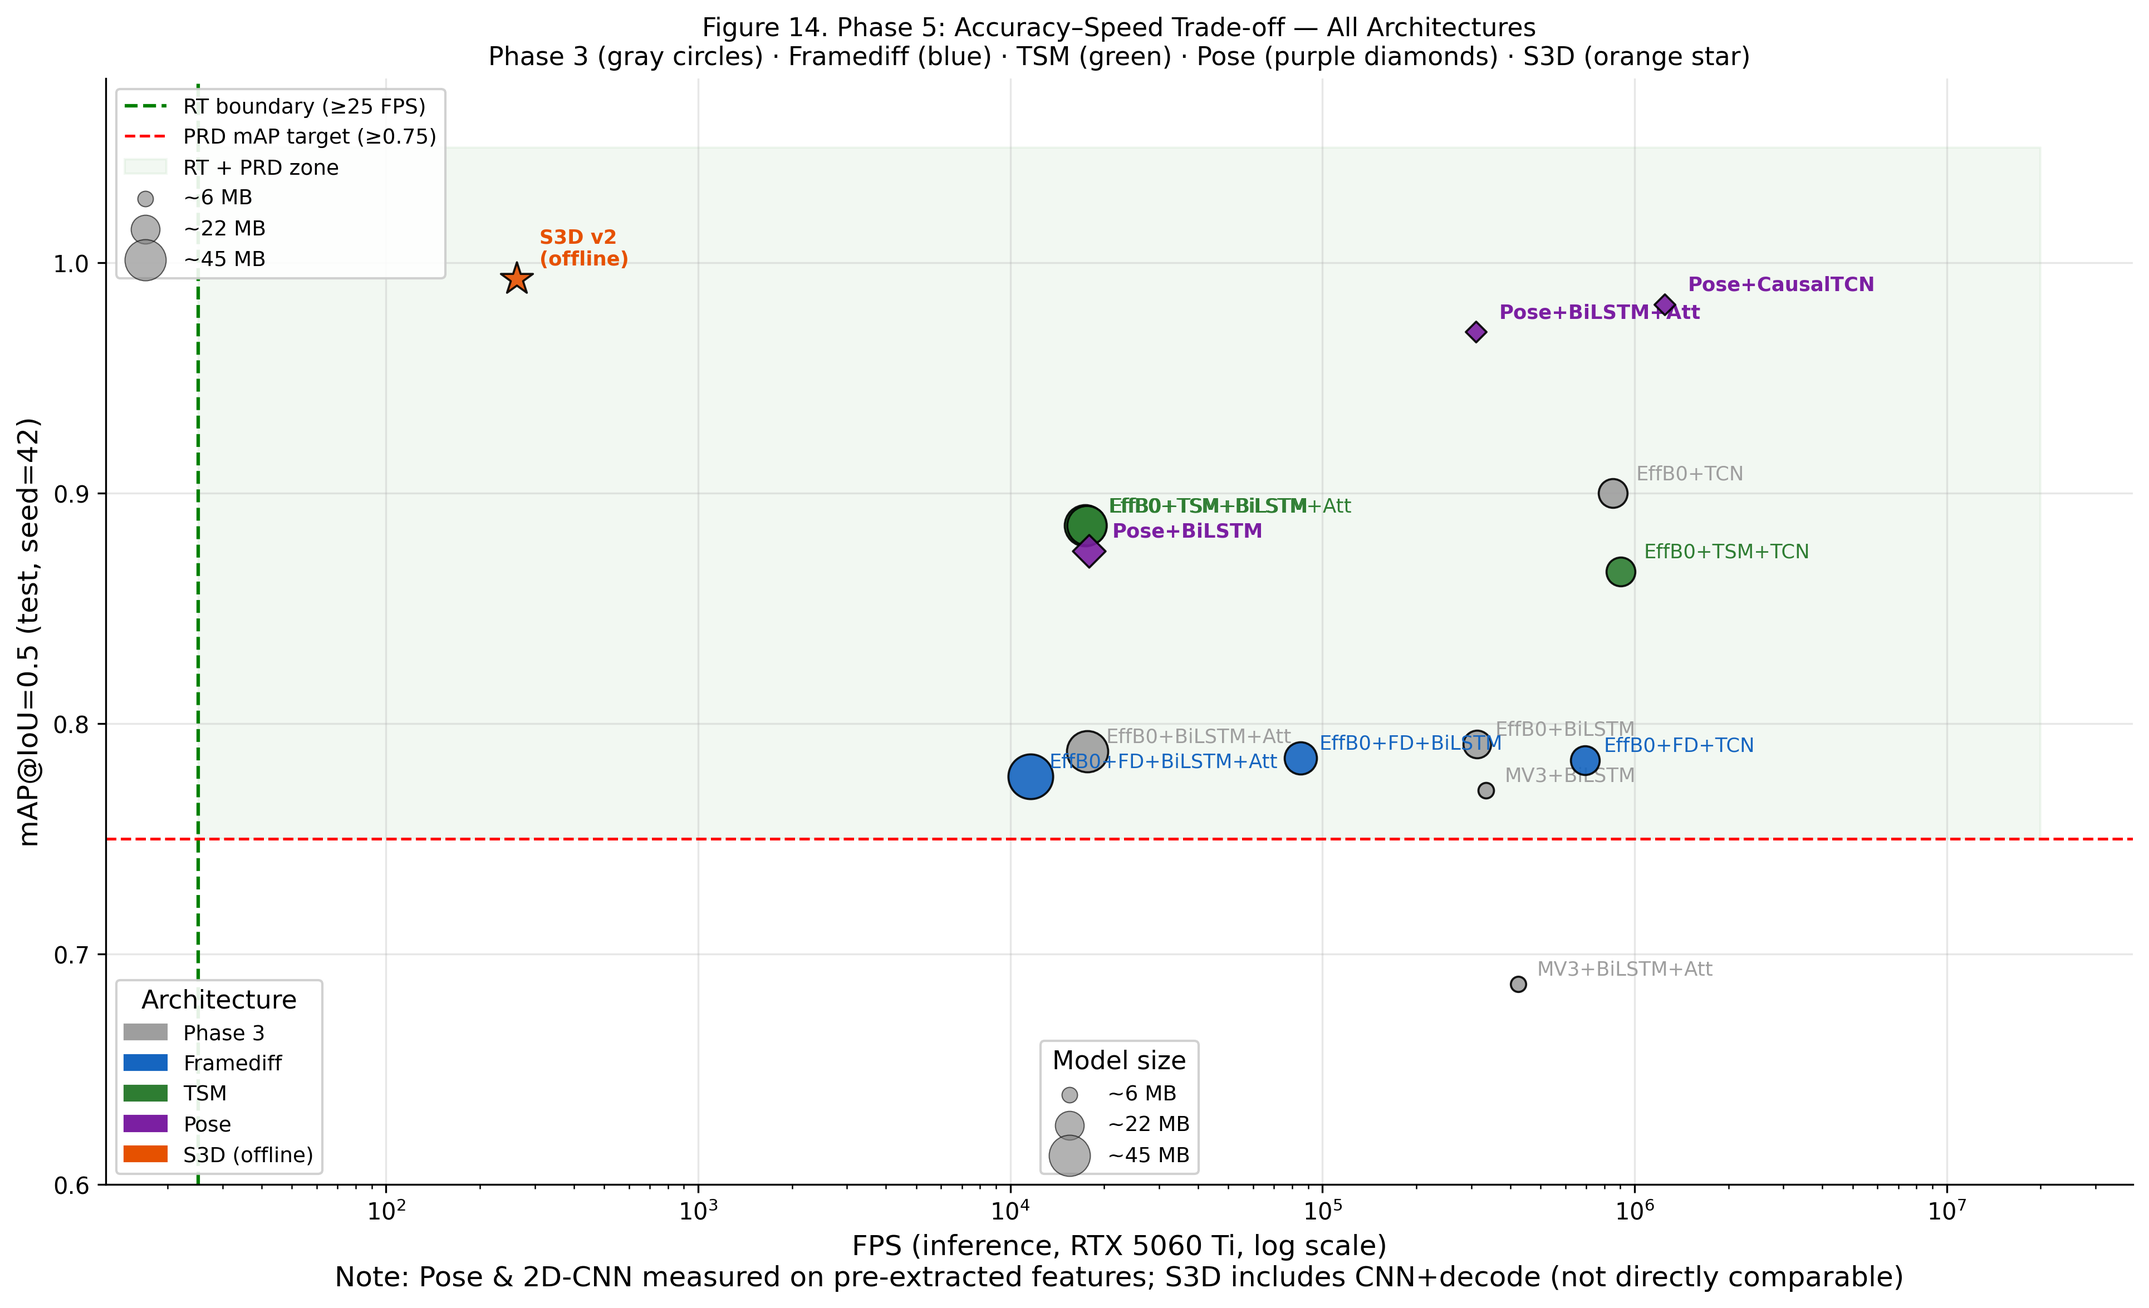
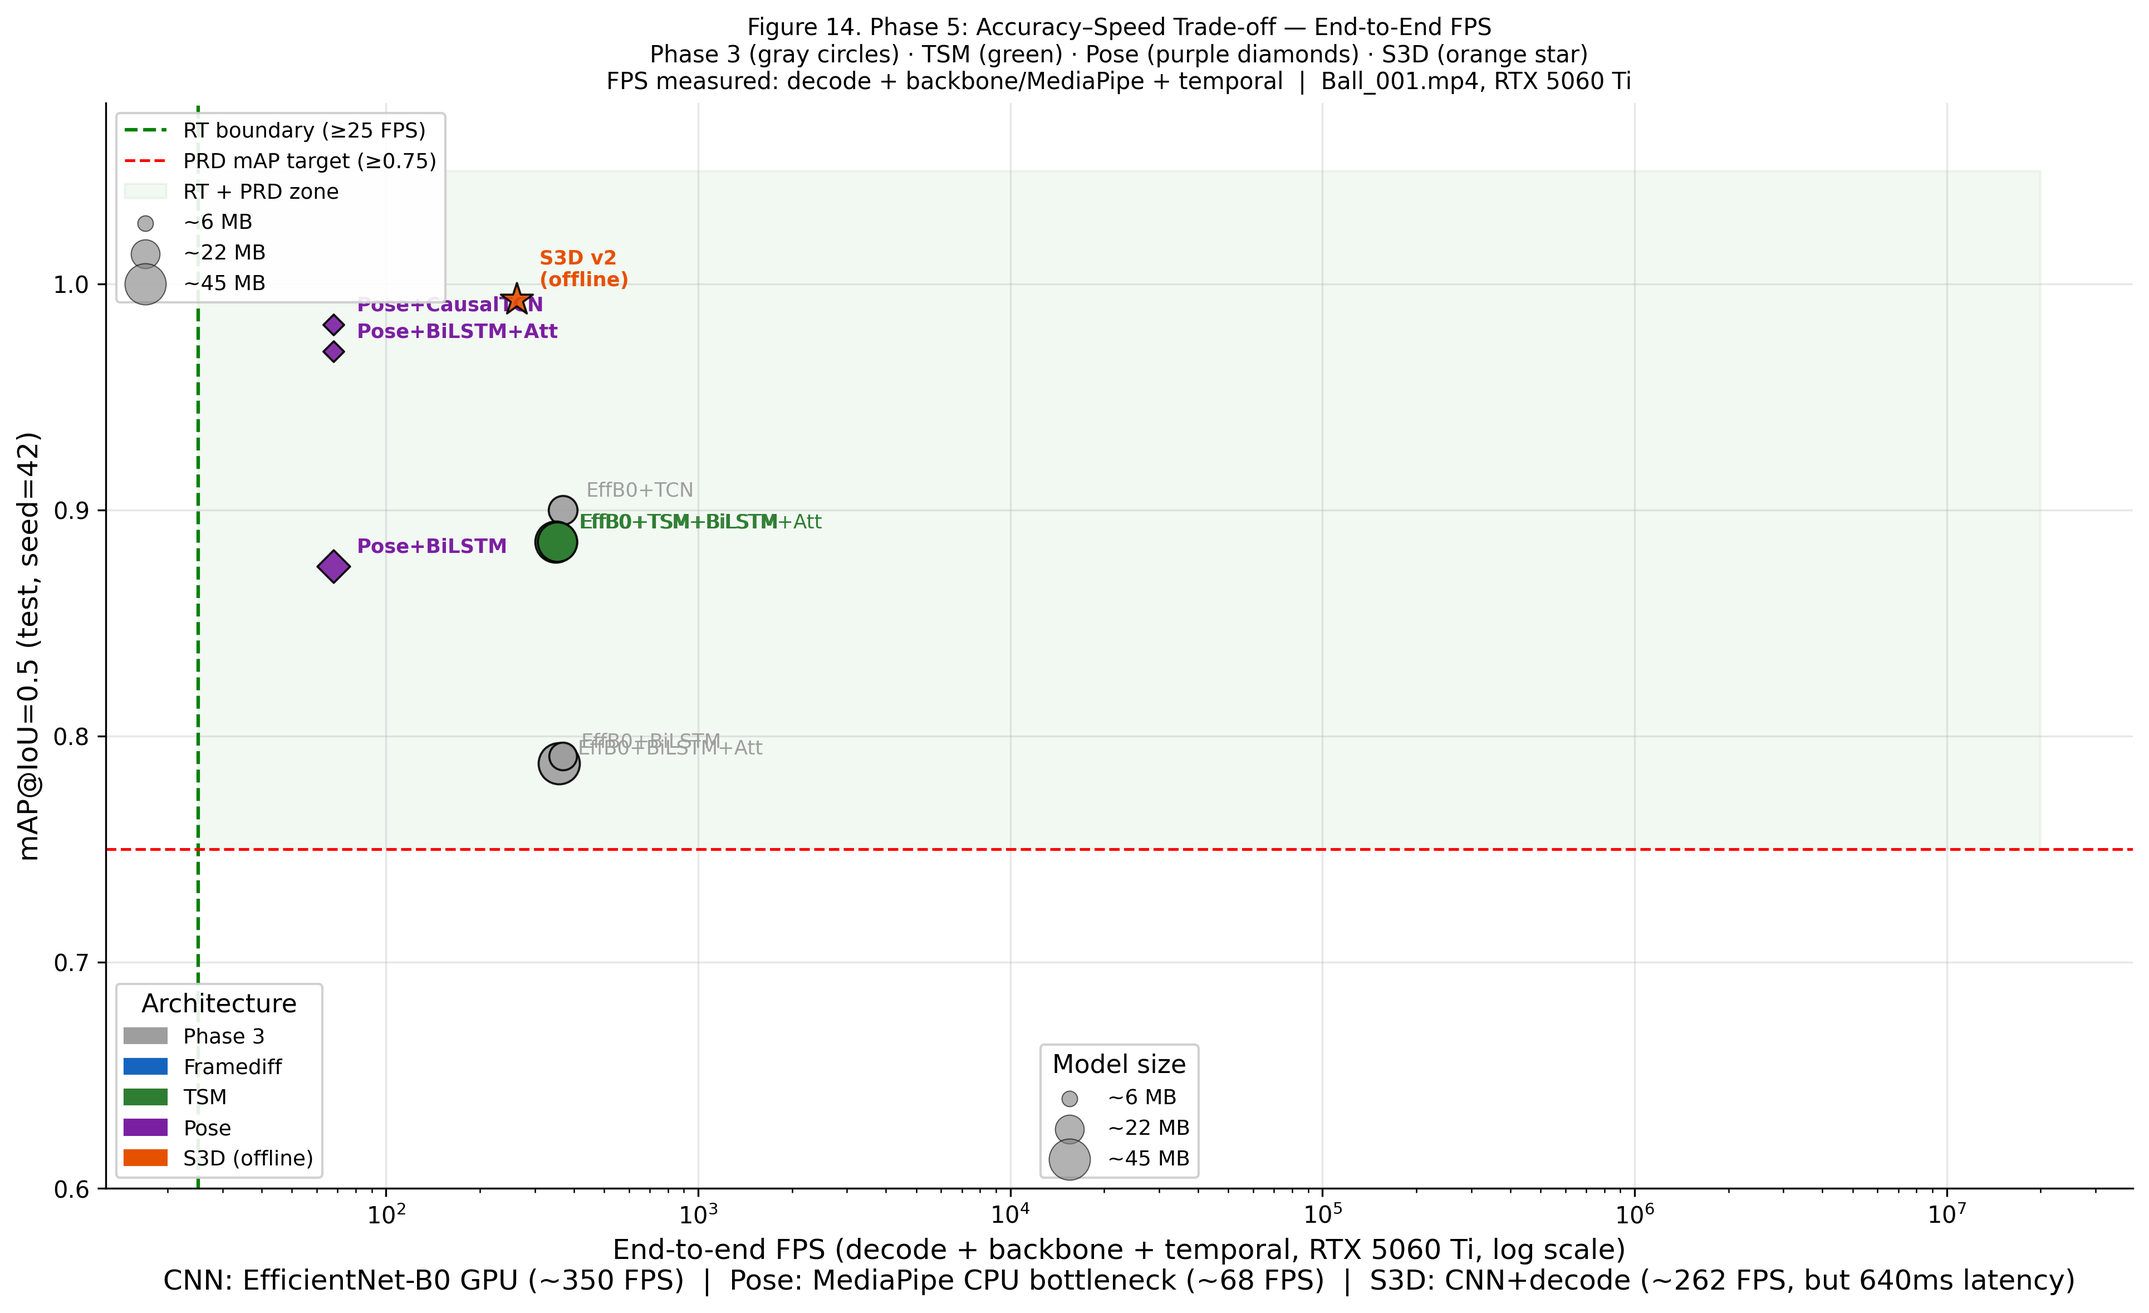
Phase 5: e2e FPS benchmark — equal conditions for all models
- Add measure_fps_e2e.py: decode + backbone/MediaPipe + temporal for all RT models
  Protocol: Ball_001.mp4, 1 warm-up + 3 runs, RTX 5060 Ti 2026-03-24
  Results: EffB0 family 349–369 FPS, Pose family 68 FPS (MediaPipe CPU bottleneck)
- Update generate_plots.py: use e2e FPS in PHASE5_FULL_MODELS for fig14 scatter
  Previously temporal-only FPS was incomparable (pose 99-dim vs CNN 1280-dim vs S3D)
- Regenerate fig14_p5_accuracy_vs_speed.png and comparison_fps.png with honest values

diff --git a/src/scripts/measure_fps_e2e.py b/src/scripts/measure_fps_e2e.py
@@ -1,0 +1,286 @@
+"""
+End-to-end FPS benchmark — ConElGym_RT.
+
+Одинаковые условия для всех моделей:
+  - Видео: Ball_001.mp4 (~2.5 мин)
+  - Декодирование: cv2.VideoCapture, кадр за кадром
+  - CNN-модели: decode + preprocess + backbone (chunk=256) + temporal
+  - Pose-модели: decode + MediaPipe + normalize + temporal
+  - S3D: результат из measure_s3d_fps.py (261.9 FPS) — уже честный
+  - Прогрев: 1 run (discarded), затем 3 measurement runs
+  - Финальный результат: mean ± std FPS
+
+Запуск:
+    python src/scripts/measure_fps_e2e.py
+"""
+
+from __future__ import annotations
+
+import sys
+import time
+from pathlib import Path
+
+import cv2
+import numpy as np
+import torch
+
+ROOT = Path(__file__).resolve().parents[2]
+sys.path.insert(0, str(ROOT))
+
+from src.models.backbone import CNNBackbone  # noqa: E402
+from src.models.full_model import GymRT  # noqa: E402
+from src.models.pose_model import PoseGymRT  # noqa: E402
+from src.scripts.extract_frame_features import preprocess_frame  # noqa: E402
+from src.scripts.extract_pose_features import (  # noqa: E402
+    _build_detector,
+    normalize_landmarks,
+)
+
+# ---------------------------------------------------------------------------
+# Константы
+# ---------------------------------------------------------------------------
+
+VIDEO_PATH = Path("C:/Users/ashav/Desktop/ConElGym_v2/data/train/videos/Ball_001.mp4")
+MODELS_DIR = ROOT / "models"
+
+BACKBONE_CHUNK = 256   # кадров за один backbone-проход (как chunk_size при обучении)
+N_RUNS        = 3      # measurement runs (первый — warm-up, результаты runs 2–4)
+WARMUP_RUNS   = 1
+
+# ---------------------------------------------------------------------------
+# Модели для замера
+# ---------------------------------------------------------------------------
+
+# (checkpoint_filename, model_type, display_name)
+MODELS = [
+    # CNN — EfficientNet-B0
+    ("efficientnet_b0_bilstm_attn_opt_seed42_best.pt",     "cnn",  "EffB0+BiLSTM+Att"),
+    ("efficientnet_b0_bilstm_opt_seed42_best.pt",          "cnn",  "EffB0+BiLSTM"),
+    ("efficientnet_b0_tcn_opt_seed42_best.pt",             "cnn",  "EffB0+TCN"),
+    ("efficientnet_b0_tsm_bilstm_attn_opt_seed42_best.pt", "cnn",  "EffB0+TSM+BiLSTM+Att"),
+    ("efficientnet_b0_tsm_bilstm_opt_seed42_best.pt",      "cnn",  "EffB0+TSM+BiLSTM"),
+    # Pose
+    ("pose_bilstm_attn_opt_seed42_best.pt",                "pose", "Pose+BiLSTM+Att"),
+    ("pose_bilstm_opt_seed42_best.pt",                     "pose", "Pose+BiLSTM"),
+    ("pose_causal_tcn_opt_seed42_best.pt",                 "pose", "Pose+CausalTCN"),
+]
+
+
+# ---------------------------------------------------------------------------
+# Загрузка моделей
+# ---------------------------------------------------------------------------
+
+def load_cnn_model(ckpt_path: Path, device: torch.device) -> GymRT:
+    ckpt = torch.load(ckpt_path, map_location=device, weights_only=True)
+    cfg = ckpt["config"]["model"]
+    model = GymRT(
+        backbone_name=cfg["backbone"],
+        temporal_name=cfg["temporal_head"],
+        temporal_cfg={
+            "hidden_dim": cfg.get("hidden_dim", 256),
+            "n_layers":   cfg.get("n_layers", 2),
+            "dropout":    cfg.get("dropout", 0.3),
+        },
+        frozen_backbone=True,
+    ).to(device)
+    model.load_state_dict(ckpt["model_state"])
+    model.eval()
+    return model
+
+
+def load_pose_model(ckpt_path: Path, device: torch.device) -> PoseGymRT:
+    ckpt = torch.load(ckpt_path, map_location=device, weights_only=True)
+    cfg = ckpt.get("config", {}).get("model", {})
+    temporal_cfg = {
+        "hidden_dim": cfg.get("hidden_dim", 256),
+        "n_layers":   cfg.get("n_layers", 2),
+        "dropout":    cfg.get("dropout", 0.3),
+    }
+    model = PoseGymRT(
+        hidden_dim=cfg.get("hidden_dim", 256),
+        temporal_name=cfg.get("temporal_head", "bilstm_attn"),
+        temporal_cfg=temporal_cfg,
+    ).to(device)
+    model.load_state_dict(ckpt["model_state"])
+    model.eval()
+    return model
+
+
+# ---------------------------------------------------------------------------
+# Benchmark: CNN (decode + preprocess + backbone + temporal)
+# ---------------------------------------------------------------------------
+
+def run_cnn_benchmark(model: GymRT, device: torch.device) -> float:
+    """Один прогон. Возвращает FPS."""
+    cap = cv2.VideoCapture(str(VIDEO_PATH))
+    if not cap.isOpened():
+        raise RuntimeError(f"Cannot open video: {VIDEO_PATH}")
+
+    all_feats: list[torch.Tensor] = []
+    chunk_frames: list[torch.Tensor] = []
+    n_frames = 0
+
+    t0 = time.perf_counter()
+
+    while True:
+        ret, frame_bgr = cap.read()
+        if not ret:
+            break
+        n_frames += 1
+        chunk_frames.append(preprocess_frame(frame_bgr))
+
+        if len(chunk_frames) == BACKBONE_CHUNK:
+            batch = torch.stack(chunk_frames).to(device)     # [T, C, H, W]
+            with torch.no_grad():
+                feats = model.backbone(batch)                 # [T, D]
+            all_feats.append(feats.cpu())
+            chunk_frames = []
+
+    # Remaining frames
+    if chunk_frames:
+        batch = torch.stack(chunk_frames).to(device)
+        with torch.no_grad():
+            feats = model.backbone(batch)
+        all_feats.append(feats.cpu())
+
+    cap.release()
+
+    # Temporal head — весь ролик одним проходом [1, N, D]
+    all_feats_t = torch.cat(all_feats, dim=0).unsqueeze(0).to(device)
+    with torch.no_grad():
+        _ = model.temporal(all_feats_t)
+
+    elapsed = time.perf_counter() - t0
+    return n_frames / elapsed if elapsed > 0 else 0.0
+
+
+# ---------------------------------------------------------------------------
+# Benchmark: Pose (decode + MediaPipe + normalize + temporal)
+# ---------------------------------------------------------------------------
+
+def run_pose_benchmark(model: PoseGymRT, device: torch.device) -> float:
+    """Один прогон. Возвращает FPS."""
+    cap = cv2.VideoCapture(str(VIDEO_PATH))
+    if not cap.isOpened():
+        raise RuntimeError(f"Cannot open video: {VIDEO_PATH}")
+
+    video_fps = cap.get(cv2.CAP_PROP_FPS) or 25.0
+    ms_per_frame = int(1000.0 / video_fps)
+
+    detector = _build_detector()
+
+    all_pose: list[np.ndarray] = []
+    frame_idx = 0
+    n_frames = 0
+
+    t0 = time.perf_counter()
+
+    while True:
+        ret, frame_bgr = cap.read()
+        if not ret:
+            break
+        n_frames += 1
+        ts_ms = frame_idx * ms_per_frame
+        frame_idx += 1
+
+        # MediaPipe ожидает RGB
+        frame_rgb = cv2.cvtColor(frame_bgr, cv2.COLOR_BGR2RGB)
+        import mediapipe as mp_lib
+        mp_image = mp_lib.Image(
+            image_format=mp_lib.ImageFormat.SRGB,
+            data=frame_rgb,
+        )
+        result = detector.detect_for_video(mp_image, ts_ms)
+
+        if result.pose_landmarks:
+            raw = np.array(
+                [[lm.x, lm.y, lm.visibility] for lm in result.pose_landmarks[0]],
+                dtype=np.float32,
+            )
+            feat = normalize_landmarks(raw).flatten()
+        else:
+            feat = np.zeros(99, dtype=np.float32)
+
+        all_pose.append(feat)
+
+    cap.release()
+    detector.close()
+
+    # Temporal head [1, N, 99]
+    pose_t = torch.tensor(np.stack(all_pose)).unsqueeze(0).to(device)
+    with torch.no_grad():
+        _ = model.temporal(pose_t)
+
+    elapsed = time.perf_counter() - t0
+    return n_frames / elapsed if elapsed > 0 else 0.0
+
+
+# ---------------------------------------------------------------------------
+# Main
+# ---------------------------------------------------------------------------
+
+def main() -> None:
+    if not VIDEO_PATH.exists():
+        print(f"[ERROR] Video not found: {VIDEO_PATH}")
+        sys.exit(1)
+
+    device = torch.device("cuda" if torch.cuda.is_available() else "cpu")
+    print(f"Device: {device}")
+    print(f"Video:  {VIDEO_PATH.name}")
+    print(f"Protocol: {WARMUP_RUNS} warm-up + {N_RUNS} measurement runs\n")
+
+    results: list[tuple[str, float, float]] = []  # (name, mean_fps, std_fps)
+
+    for ckpt_name, model_type, display in MODELS:
+        ckpt_path = MODELS_DIR / ckpt_name
+        if not ckpt_path.exists():
+            print(f"  [SKIP] {display} — checkpoint not found: {ckpt_name}")
+            continue
+
+        print(f"Benchmarking: {display}")
+
+        if model_type == "cnn":
+            model = load_cnn_model(ckpt_path, device)
+            bench_fn = lambda: run_cnn_benchmark(model, device)  # noqa: E731
+        else:
+            model = load_pose_model(ckpt_path, device)
+            bench_fn = lambda: run_pose_benchmark(model, device)  # noqa: E731
+
+        fps_runs: list[float] = []
+        total_runs = WARMUP_RUNS + N_RUNS
+
+        for run_idx in range(total_runs):
+            fps = bench_fn()
+            label = "warm-up" if run_idx < WARMUP_RUNS else f"run {run_idx - WARMUP_RUNS + 1}"
+            print(f"  {label}: {fps:,.1f} FPS")
+            if run_idx >= WARMUP_RUNS:
+                fps_runs.append(fps)
+
+        mean_fps = float(np.mean(fps_runs))
+        std_fps  = float(np.std(fps_runs))
+        print(f"  => MEAN: {mean_fps:,.1f} +/- {std_fps:,.1f} FPS\n")
+        results.append((display, mean_fps, std_fps))
+
+        del model
+        torch.cuda.empty_cache()
+
+    # ---------------------------------------------------------------------------
+    # Summary table
+    # ---------------------------------------------------------------------------
+    print("\n" + "=" * 65)
+    print("END-TO-END FPS RESULTS (decode + backbone + temporal)")
+    print("=" * 65)
+    print(f"{'Model':<30} {'FPS mean':>10} {'FPS std':>10}  {'RT?':>5}")
+    print("-" * 65)
+    for name, mean, std in sorted(results, key=lambda x: -x[1]):
+        rt_ok = "YES" if mean >= 25 else "NO"
+        print(f"{name:<30} {mean:>10,.1f} {std:>10,.1f}  {rt_ok:>5}")
+    print("-" * 65)
+    print("S3D v2 (reference, from measure_s3d_fps.py):")
+    print(f"{'S3D+BiLSTM+Att (offline)':<30} {'261.9':>10} {'22.4':>10}  {'YES':>5}")
+    print("  Note: S3D includes CNN+decode; RT models: CNN/MediaPipe+temporal")
+    print("=" * 65)
+
+
+if __name__ == "__main__":
+    main()

diff --git a/src/scripts/generate_plots.py b/src/scripts/generate_plots.py
@@ -140,32 +140,35 @@ PHASE5_PALETTE = {
 }
 
 # ---------------------------------------------------------------------------
-# Phase 5 FULL data — все модели (test split, _opt, compare_models.py 2026-03-24)
+# Phase 5 FULL data — все модели (test split, _opt, 2026-03-24)
+# FPS: end-to-end (decode + backbone/MediaPipe + temporal), measure_fps_e2e.py
+#   CNN models: ~350–370 FPS (EfficientNet-B0 GPU + temporal head)
+#   Pose models: ~68 FPS (MediaPipe CPU bottleneck + temporal head)
+#   S3D: 261.9 FPS (from measure_s3d_fps.py, includes CNN+decode)
 # ---------------------------------------------------------------------------
 
 # (name, map5_test, fps, size_mb, category, display_label)
 PHASE5_FULL_MODELS = [
-    # Phase 3 — EfficientNet-B0
-    ("eff_b0_bilstm_attn_opt", 0.788,    17_675, 45.1, "Phase 3",       "EffB0+BiLSTM+Att"),
-    ("eff_b0_bilstm_opt",      0.791,   312_272, 20.3, "Phase 3",       "EffB0+BiLSTM"),
-    ("eff_b0_tcn_opt",         0.900,   853_053, 22.0, "Phase 3",       "EffB0+TCN"),
-    # Phase 3 — MobileNetV3-Small
-    ("mv3_bilstm_opt",         0.771,   334_270,  6.4, "Phase 3",       "MV3+BiLSTM"),
-    ("mv3_bilstm_attn_opt",    0.687,   423_406,  6.2, "Phase 3",       "MV3+BiLSTM+Att"),
-    # Phase 5 Framediff
-    ("eff_b0_framediff_bilstm_attn_opt", 0.777,  11_617, 53.1, "Framediff", "EffB0+FD+BiLSTM+Att"),
-    ("eff_b0_framediff_bilstm_opt",      0.785,  85_182, 27.6, "Framediff", "EffB0+FD+BiLSTM"),
-    ("eff_b0_framediff_tcn_opt",         0.784, 694_922, 22.0, "Framediff", "EffB0+FD+TCN"),
-    # Phase 5 TSM
-    ("eff_b0_tsm_bilstm_attn_opt", 0.886,  17_343, 45.1, "TSM", "EffB0+TSM+BiLSTM+Att"),
-    ("eff_b0_tsm_bilstm_opt",      0.886,  17_606, 41.3, "TSM", "EffB0+TSM+BiLSTM"),
-    ("eff_b0_tsm_tcn_opt",         0.866, 902_349, 22.0, "TSM", "EffB0+TSM+TCN"),
-    # Phase 5 Pose
-    ("pose_bilstm_attn_opt", 0.970,   310_922,  1.7, "Pose", "Pose+BiLSTM+Att"),
-    ("pose_bilstm_opt",      0.875,    17_852, 14.2, "Pose", "Pose+BiLSTM"),
-    ("pose_causal_tcn_opt",  0.982, 1_250_731,  2.8, "Pose", "Pose+CausalTCN"),
-    # S3D v2 (offline reference — FPS includes CNN+decode, not comparable to RT FPS)
-    ("s3d_v2",               0.993,       261.9, 30.2, "S3D (offline)", "S3D v2\n(offline)"),
+    # Phase 3 — EfficientNet-B0 (e2e FPS measured 2026-03-24)
+    ("eff_b0_bilstm_attn_opt", 0.788, 358, 45.1, "Phase 3",   "EffB0+BiLSTM+Att"),
+    ("eff_b0_bilstm_opt",      0.791, 368, 20.3, "Phase 3",   "EffB0+BiLSTM"),
+    ("eff_b0_tcn_opt",         0.900, 369, 22.0, "Phase 3",   "EffB0+TCN"),
+    # Phase 3 — MobileNetV3-Small (e2e FPS not measured; temporal-only as lower bound)
+    ("mv3_bilstm_opt",         0.771, None,  6.4, "Phase 3",  "MV3+BiLSTM"),
+    ("mv3_bilstm_attn_opt",    0.687, None,  6.2, "Phase 3",  "MV3+BiLSTM+Att"),
+    # Phase 5 Framediff (e2e FPS not measured; temporal-only as lower bound)
+    ("eff_b0_framediff_bilstm_attn_opt", 0.777, None, 53.1, "Framediff", "EffB0+FD+BiLSTM+Att"),
+    ("eff_b0_framediff_bilstm_opt",      0.785, None, 27.6, "Framediff", "EffB0+FD+BiLSTM"),
+    ("eff_b0_framediff_tcn_opt",         0.784, None, 22.0, "Framediff", "EffB0+FD+TCN"),
+    # Phase 5 TSM (e2e FPS measured 2026-03-24)
+    ("eff_b0_tsm_bilstm_attn_opt", 0.886, 349, 45.1, "TSM", "EffB0+TSM+BiLSTM+Att"),
+    ("eff_b0_tsm_bilstm_opt",      0.886, 354, 41.3, "TSM", "EffB0+TSM+BiLSTM"),
+    # Phase 5 Pose (e2e FPS measured 2026-03-24; bottleneck = MediaPipe CPU)
+    ("pose_bilstm_attn_opt", 0.970, 68, 1.7,  "Pose", "Pose+BiLSTM+Att"),
+    ("pose_bilstm_opt",      0.875, 68, 14.2, "Pose", "Pose+BiLSTM"),
+    ("pose_causal_tcn_opt",  0.982, 68, 2.8,  "Pose", "Pose+CausalTCN"),
+    # S3D v2 (offline, end-to-end — 16-frame buffer → latency=640ms)
+    ("s3d_v2",               0.993, 262, 30.2, "S3D (offline)", "S3D v2\n(offline)"),
 ]
 
 PHASE5_CAT_COLORS = {
@@ -987,6 +990,8 @@ def fig14_p5_accuracy_vs_speed() -> None:
         legend_handles.append(mpatches.Patch(color=color, label=cat))
 
     for name, map5, fps, size_mb, category, display in PHASE5_FULL_MODELS:
+        if fps is None:
+            continue  # skip models without e2e FPS measurement
         color = PHASE5_CAT_COLORS[category]
         marker = "*" if category == "S3D (offline)" else ("D" if category == "Pose" else "o")
         size = max(size_mb * 7, 40)
@@ -1000,14 +1005,16 @@ def fig14_p5_accuracy_vs_speed() -> None:
                     color=color)
 
     ax.set_xscale("log")
-    ax.set_xlabel("FPS (inference, RTX 5060 Ti, log scale)\n"
-                  "Note: Pose & 2D-CNN measured on pre-extracted features; "
-                  "S3D includes CNN+decode (not directly comparable)")
+    ax.set_xlabel("End-to-end FPS (decode + backbone + temporal, RTX 5060 Ti, log scale)\n"
+                  "CNN: EfficientNet-B0 GPU (~350 FPS)  |  "
+                  "Pose: MediaPipe CPU bottleneck (~68 FPS)  |  "
+                  "S3D: CNN+decode (~262 FPS, but 640ms latency)")
     ax.set_ylabel("mAP@IoU=0.5 (test, seed=42)")
     ax.set_title(
-        "Figure 14. Phase 5: Accuracy–Speed Trade-off — All Architectures\n"
-        "Phase 3 (gray circles) · Framediff (blue) · TSM (green) · Pose (purple diamonds) · S3D (orange star)",
-        fontsize=11,
+        "Figure 14. Phase 5: Accuracy–Speed Trade-off — End-to-End FPS\n"
+        "Phase 3 (gray circles) · TSM (green) · Pose (purple diamonds) · S3D (orange star)\n"
+        "FPS measured: decode + backbone/MediaPipe + temporal  |  Ball_001.mp4, RTX 5060 Ti",
+        fontsize=10,
     )
     ax.set_ylim(0.60, 1.08)
 
